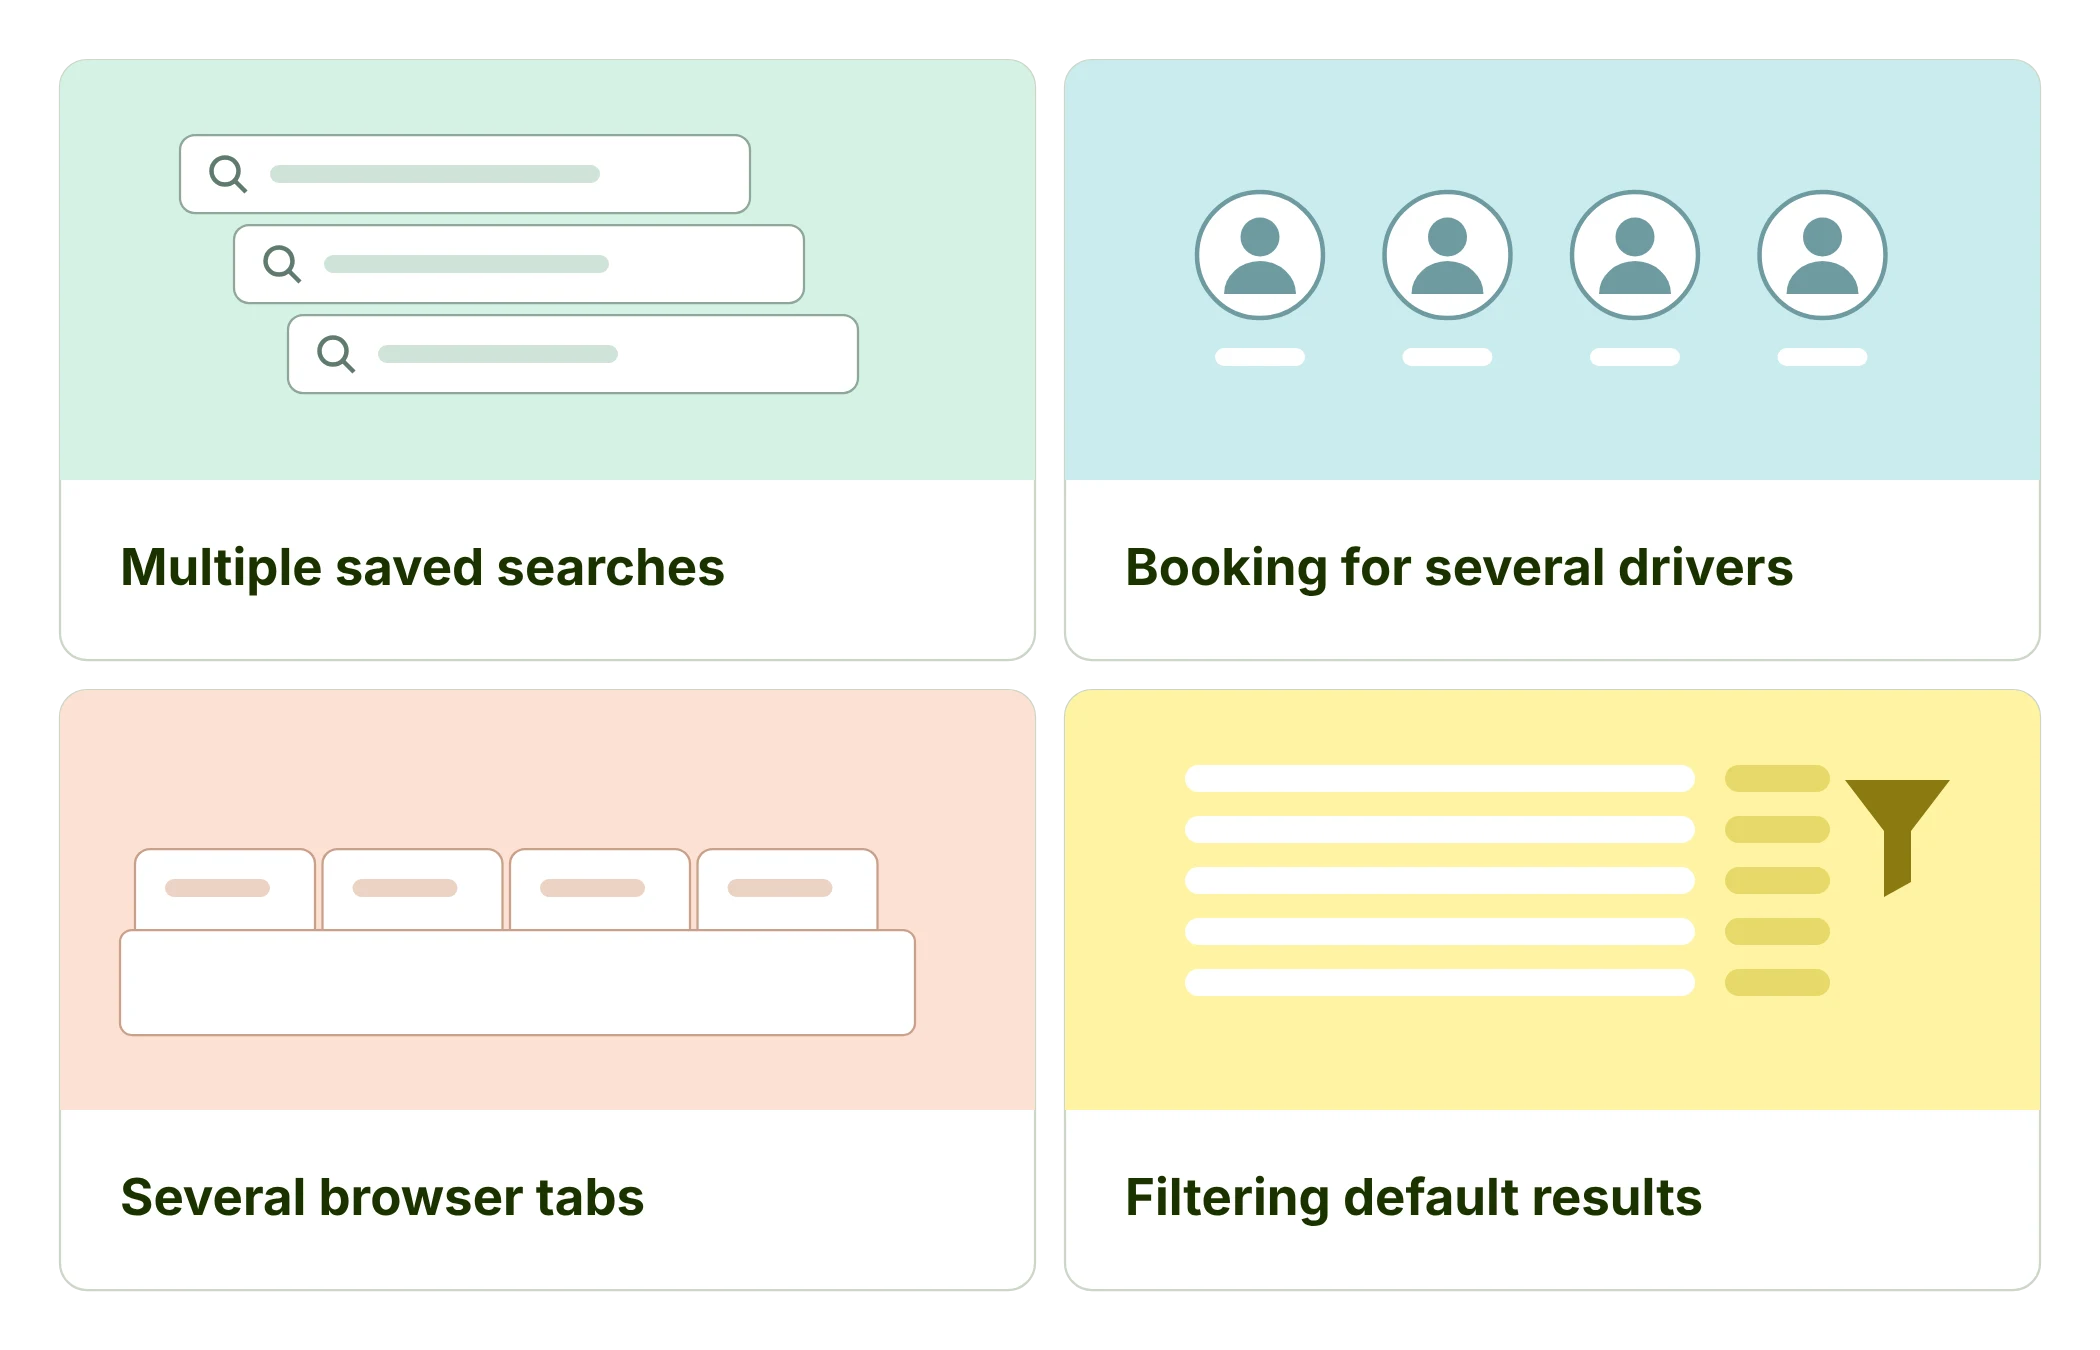
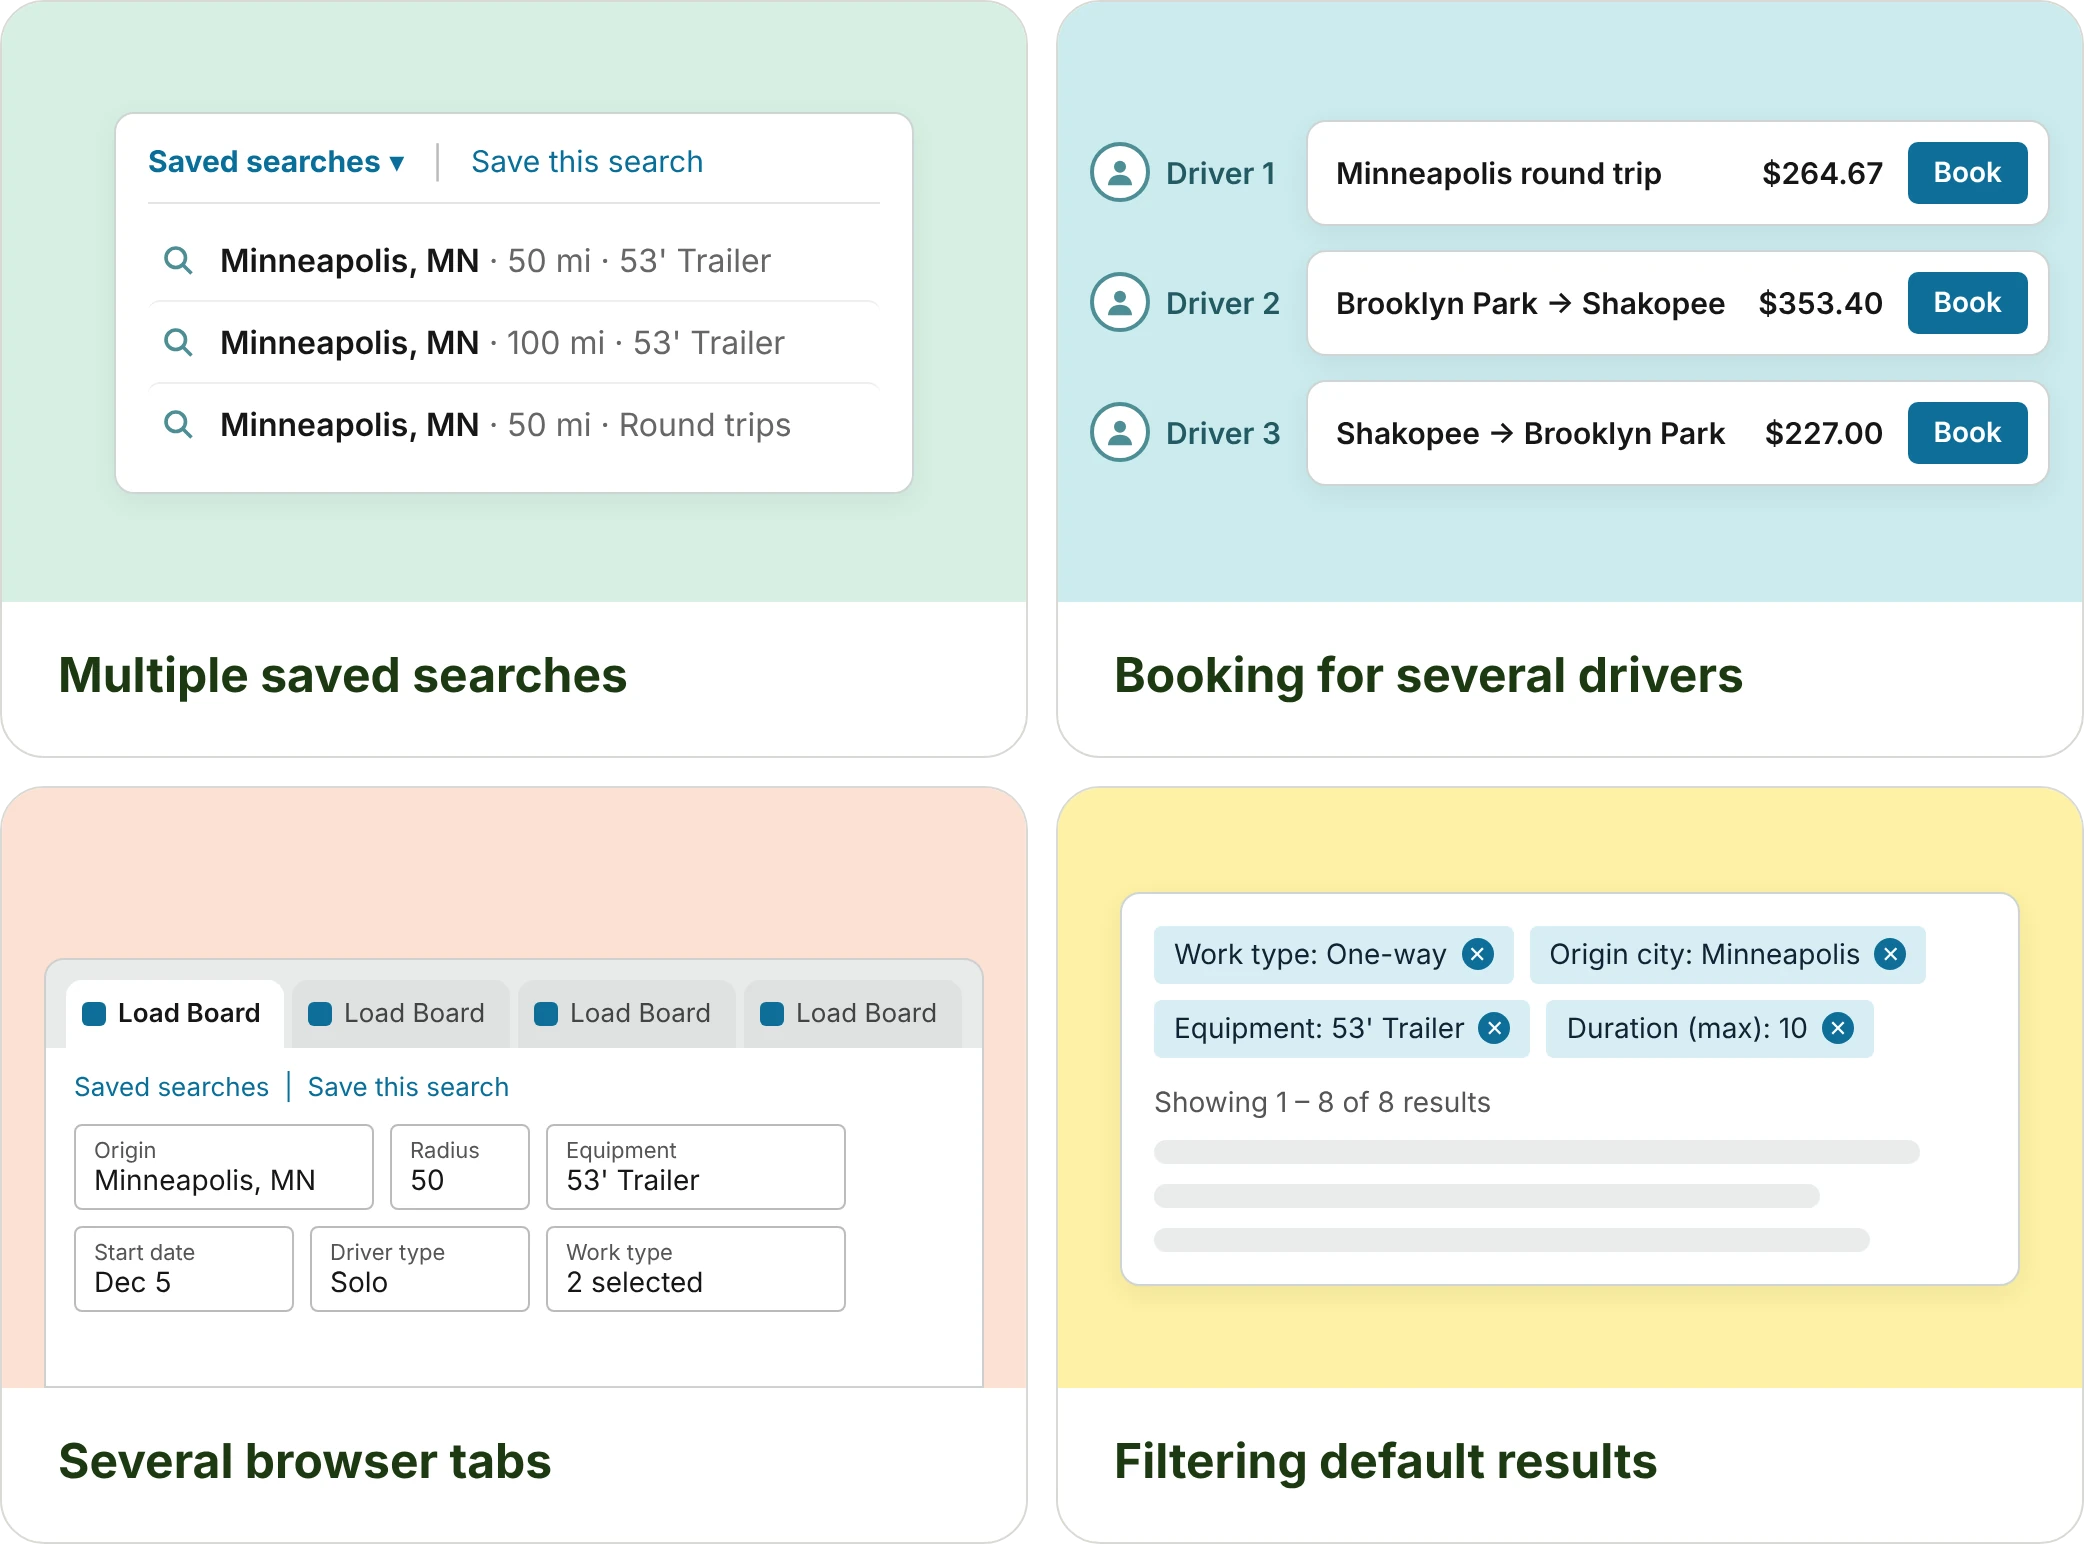
Load Board: build out the carrier behavior cards with Load Board screens
Claude-Session: https://claude.ai/code/session_01HAnvLrxAh4Wznvy4Cj8Sx4

diff --git a/src/content/projects/01-amazon-relay-load-board.md b/src/content/projects/01-amazon-relay-load-board.md
@@ -84,7 +84,7 @@ The default experience, however, often dropped carriers into a generic or incons
 <p class="callout">Help carriers express the work they are actually available for first, then make the remaining options easier to evaluate.</p>
 
 <figure class="visual visual--inline">
-<img class="is-mockup" src="/images/work/amazon-relay-load-board/carrier-behavior.webp" alt="Four cards of carrier behaviors from research: multiple saved searches, booking for several drivers, several browser tabs, and filtering default results." loading="lazy" />
+<img class="is-mockup" src="/images/work/amazon-relay-load-board/carrier-behavior.webp" width="2084" height="1544" alt="Four cards of carrier behaviors on the old Load Board. Multiple saved searches: the saved searches menu lists three variations of a Minneapolis search with different radius and work type. Booking for several drivers: three result rows, each with a Book button, matched to Driver 1, 2 and 3. Several browser tabs: a browser with four Load Board tabs open, each holding its own search. Filtering default results: filter chips for work type, origin city, equipment and duration above the results." loading="lazy" />
 <figcaption>What carriers were already doing before the redesign: repeating saved searches, booking for several drivers, holding searches in browser tabs, and filtering generic results.</figcaption>
 </figure>
 
